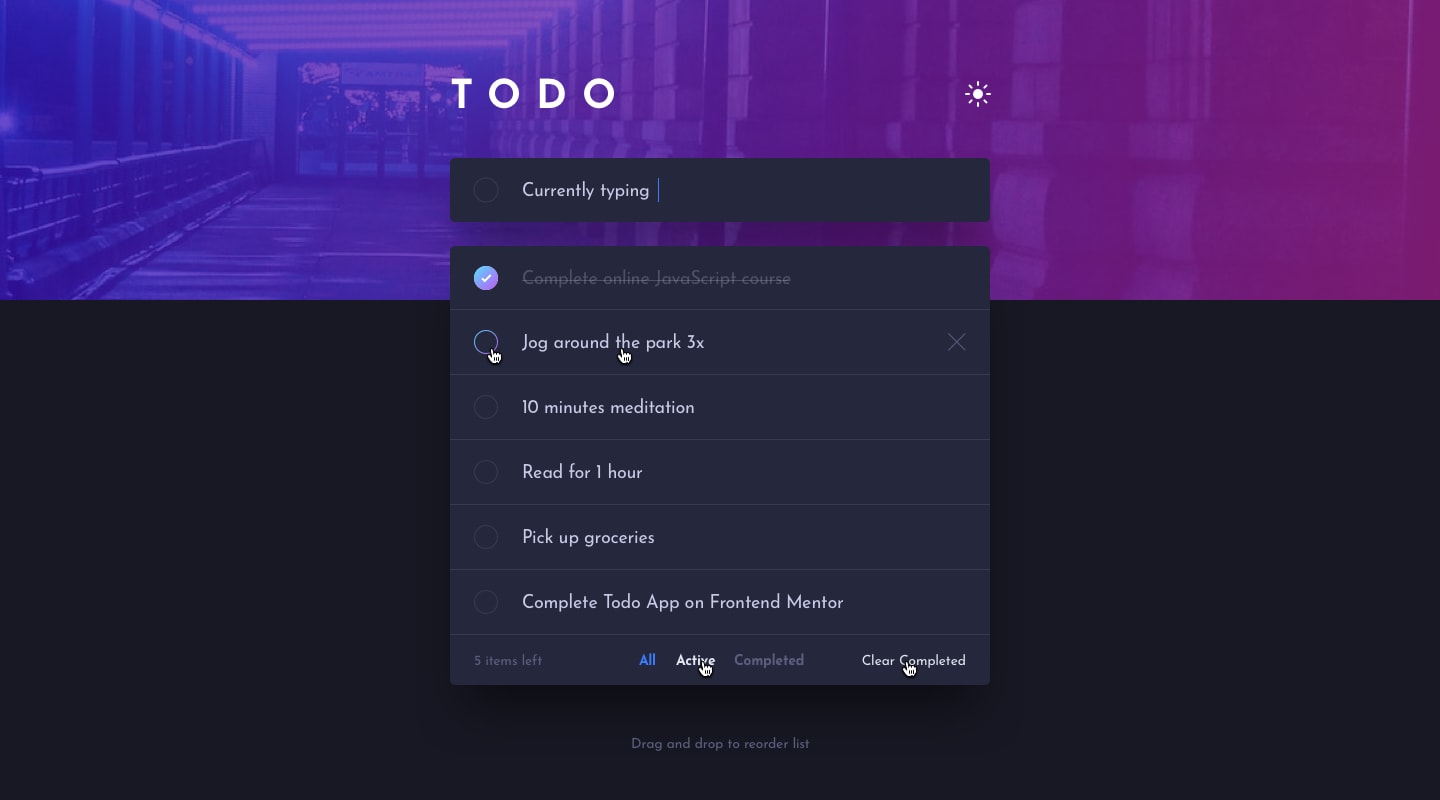
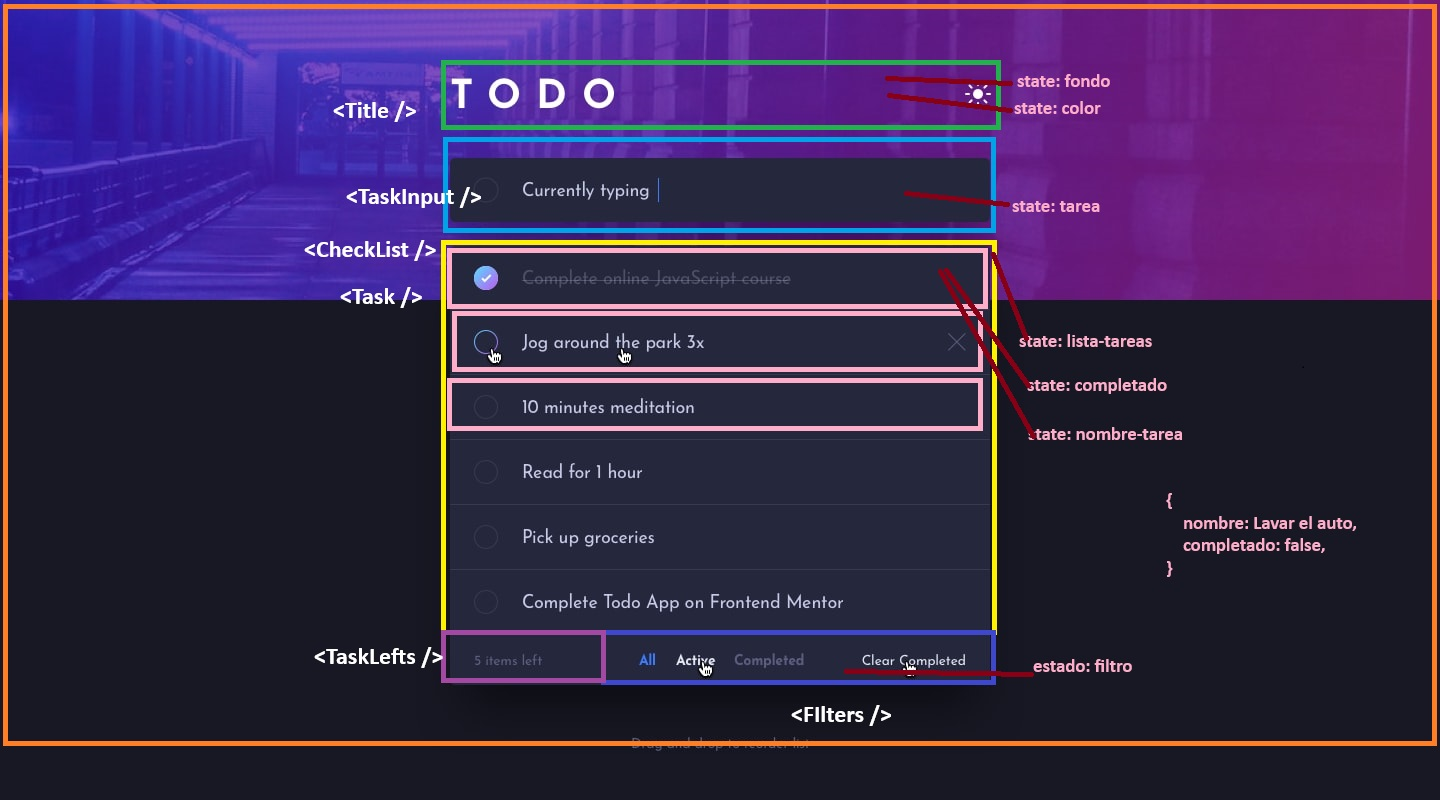
Add TaskInput

Changed region(s): [[0.0, 0.0, 1.0, 0.9375], [0.8125, 0.625, 0.9375, 0.6875]]

diff --git a/src/components/TaskInput/styles.module.css b/src/components/TaskInput/styles.module.css
@@ -1,0 +1,32 @@
+.container {
+    position: relative;
+    margin: 0 auto;
+    width: 540px;
+    height: 64px;
+    background-color: hsl(235, 24%, 19%);
+    border-radius: 5px;
+    display: flex;
+}
+
+.form {
+    display: flex;
+    flex-direction: row;
+    justify-content: center;
+    align-items: center;
+    gap: 20px;
+    padding: 10px;
+}
+
+.input {
+    border: none;
+    background-color: hsl(235, 24%, 19%);
+    color: white;
+    outline: none;
+    width: 100%;
+    font-size: 1.1rem;
+}
+
+.checkbox {
+    
+}
+

diff --git a/src/components/App/index.jsx b/src/components/App/index.jsx
@@ -3,6 +3,7 @@ import imgDark from '/images/bg-desktop-dark.jpg'
 
 import styles from './styles.module.css'
 import Title from '../Title'
+import TaskInput from '../TaskInput'
 function App() {
 
   return (
@@ -10,6 +11,7 @@ function App() {
       <img className={styles.background} src={imgDark} alt="" />
       <div className={styles.content}>
         <Title />
+        <TaskInput />
       </div>
     </main>
   )

diff --git a/src/components/TaskInput/index.jsx b/src/components/TaskInput/index.jsx
@@ -1,0 +1,12 @@
+import styles from './styles.module.css'
+
+export default function TaskInput() {
+    return (
+        <div className={styles.container}>
+            <form className={styles.form}>
+                <input type='checkbox' className={styles.checkbox} />
+                <input type='text' className={styles.input} placeholder='Create a new todo...' />
+            </form>
+        </div>
+    )
+}

diff --git a/src/components/Title/styles.module.css b/src/components/Title/styles.module.css
@@ -1,10 +1,10 @@
 .container {
     display: flex;
-    width: 500px;
+    width: 540px;
     justify-content: space-between;
     align-items: center;
-    z-index: 1;
-    position: relative
+    margin: 0 auto;
+    position: relative;
 }
 
 .todoText {

diff --git a/src/components/App/styles.module.css b/src/components/App/styles.module.css
@@ -11,8 +11,5 @@
 }
 
 .content {
-    display: flex;
-    justify-content: center;
-    position: relative;
-    top: 100px
+    padding-top: 100px;
 }
